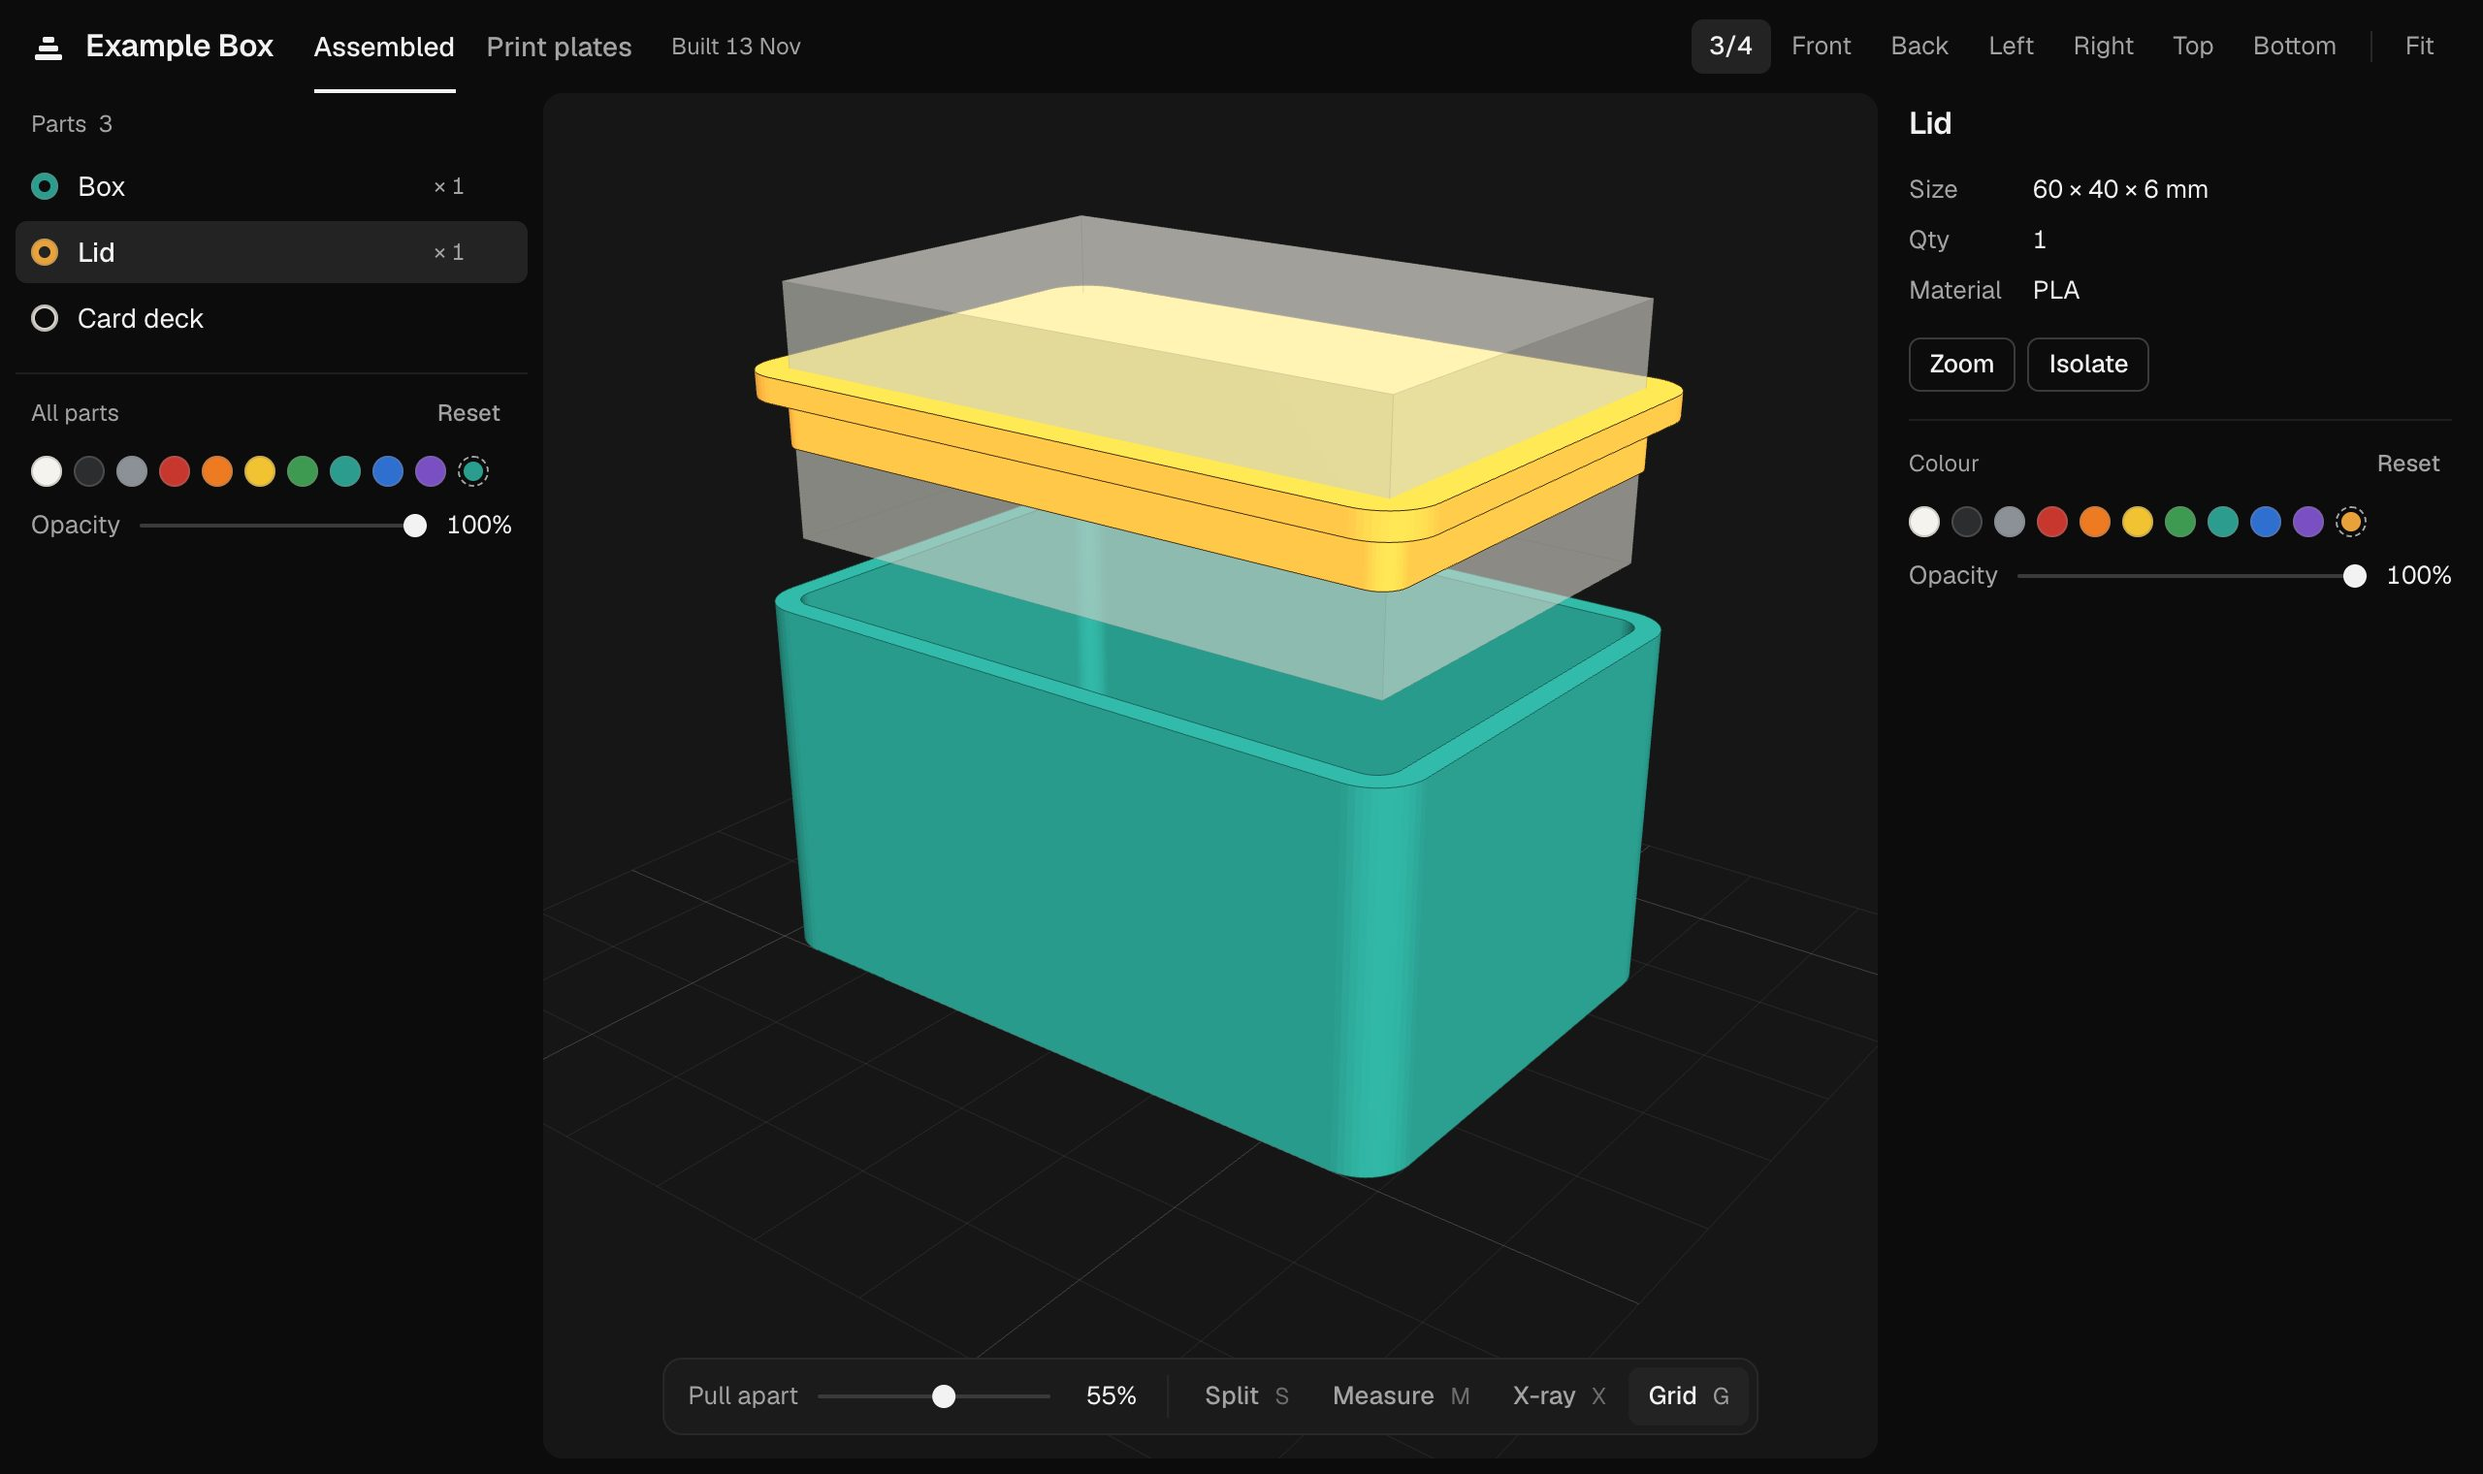
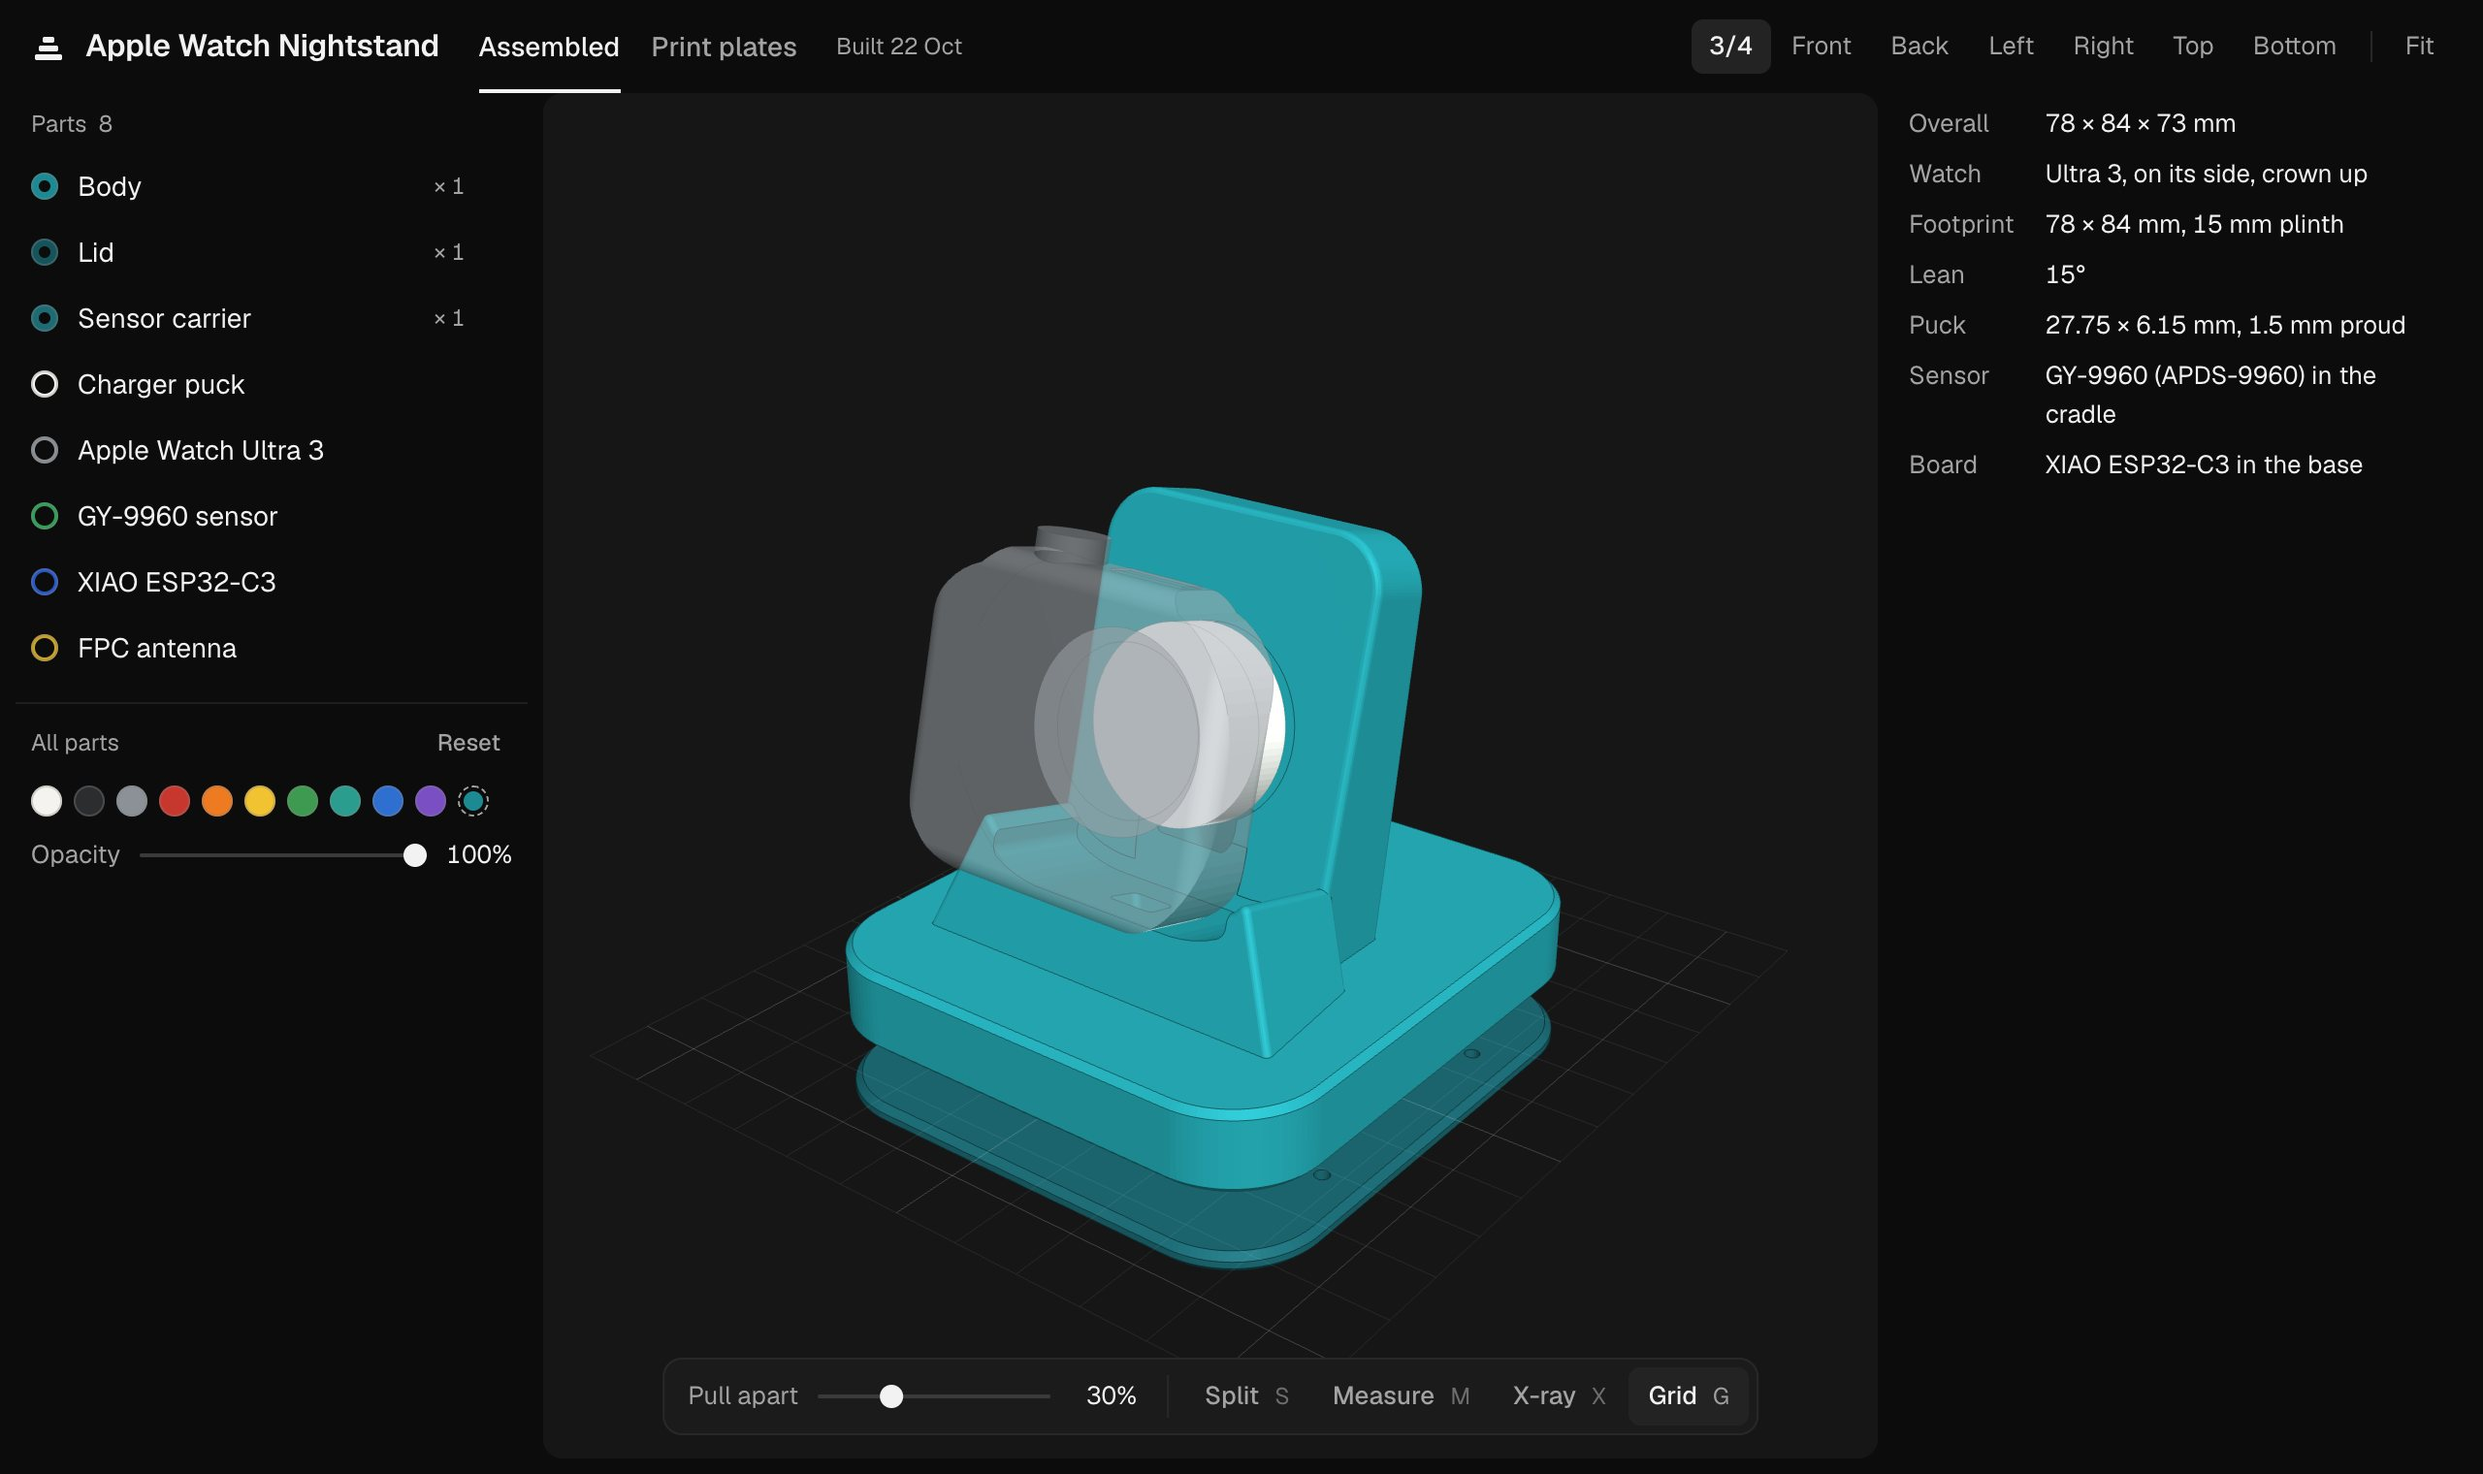
README: viewer screenshot is a real project (Apple Watch nightstand)
Replaces the plain example box with the watch stand in print-kit's viewer,
light and dark: ghosted watch and charger, lid pulled apart, facts panel.

diff --git a/README.md b/README.md
@@ -214,7 +214,7 @@ viewer build and the session hook.
 
 <picture>
   <source media="(prefers-color-scheme: dark)" srcset="brand/viewer-dark.jpg">
-  <img alt="The 3D viewer: a box and lid pulled apart, with a parts list and a floor grid" src="brand/viewer-light.jpg" width="100%">
+  <img alt="The 3D viewer showing an Apple Watch nightstand stand pulled apart, with its parts list and sizes" src="brand/viewer-light.jpg" width="100%">
 </picture>
 
 Every design gets an interactive 3D page, built by Claude and opened inside Claude Code. Ask for it
